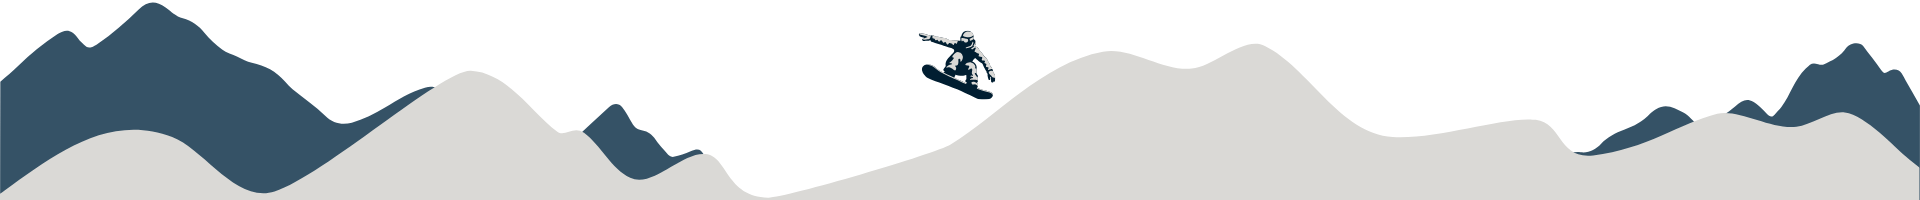
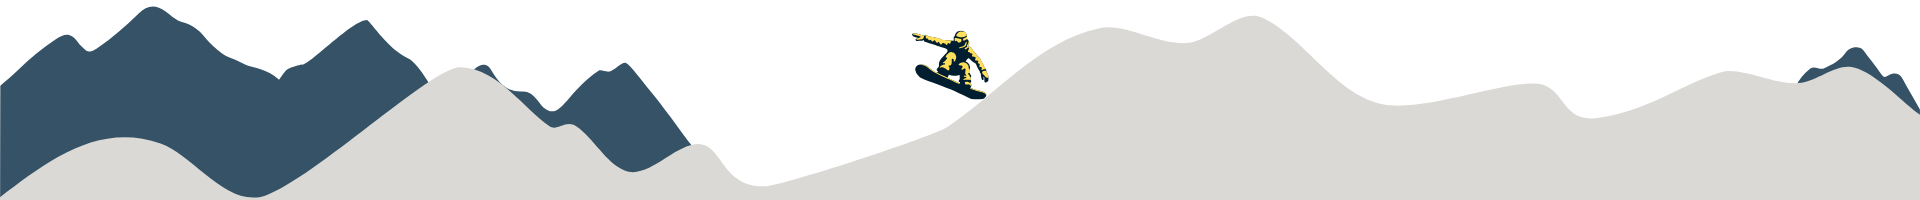
New layout

diff --git a/stylesheet.css b/stylesheet.css
@@ -8,9 +8,7 @@ html {
 
 body {
   font-family: "Gill Sans", "Gill Sans MT", Calibri, "Trebuchet MS", sans-serif;
-  background-color: #68869a;
-  background-image: linear-gradient(175deg, #68869a 70%, #f8e595);
-
+  background-color: hsl(45, 5%, 85%, 100%);
   margin: 0;
   padding: 0;
   min-height: 100vh;
@@ -20,8 +18,6 @@ body {
   display: grid;
   grid-template-columns: 1fr;
   grid-template-rows: auto auto 1fr auto auto auto; /* header nav main aside div footer */
-  min-height: 100vh;
-  height: 100%;
 
   @media (min-width: 480px) {
     grid-template-columns: 1fr 2fr;
@@ -36,30 +32,61 @@ body {
 
 header {
   grid-area: 1 / 1 / 2 / 2;
-  padding: 0.5rem 10%;
+  z-index: 0;
+  padding: 0.5rem 1rem;
+
+  background-color: #68869a;
+  background-image: linear-gradient(175deg, #68869a 70%, #f8e595);
+  height: 200px;
 
   @media (min-width: 480px) {
     grid-area: 1 / 1 / 2 / 3;
+    padding: 0.5rem 2rem;
   }
 
   @media (min-width: 1024px) {
-    grid-area: 1 / 1 / 3 / 3;
-    align-items: center;
-    justify-content: left;
+    grid-area: 1 / 1 / 2 / 3;
+    padding: 0rem 0rem 0rem 3rem;
+  }
+}
+
+.gradient {
+  grid-area: 1 / 1 / 2 / 2;
+  z-index: 1;
+  margin: 0;
+  padding: 0;
+  background-image: url("branding/footer-bjerge.png");
+  background-size: cover;
+  background-repeat: no-repeat;
+  background-position: center;
+  height: 200px;
+
+  @media (min-width: 480px) {
+    grid-area: 1 / 1 / 2 / 3;
+    padding: 0.5rem 2rem;
+  }
+
+  @media (min-width: 1024px) {
+    grid-area: 1 / 1 / 2 / 3;
+    padding: 0rem 0rem 0rem 3rem;
   }
 }
 
 nav {
   grid-area: 2 / 1 / 3 / 2;
-  padding: 0.5rem 10%;
+  z-index: 2;
+  display: grid;
+  padding: 0.5rem 1rem;
 
   @media (min-width: 480px) {
     grid-area: 2 / 1 / 3 / 3;
+    padding: 0.5rem 2rem;
   }
 
   @media (min-width: 1024px) {
-    grid-area: 1 / 1 / 3 / 3;
-      align-items: center;
+    grid-area: 1 / 2 / 2 / 3;
+    padding: 0rem 3rem;
+    align-items: end;
   }
 }
 
@@ -68,19 +95,20 @@ nav > ul {
   display: flex;
   flex-flow: row wrap;
   align-items: center;
-  justify-content: center;
+  justify-content: flex-end;
   gap: 1rem;
   font-family: "Kalam", "Lucida Sans", "Lucida Sans Regular", "Lucida Grande",
     "Lucida Sans Unicode", Geneva, Verdana, sans-serif;
   font-weight: 700;
   text-transform: uppercase;
   font-size: 1.3rem;
+  margin: 0;
+  padding: 0;
 
   @media (min-width: 480px) {
   }
 
   @media (min-width: 1024px) {
-    justify-content: flex-end;
   }
 }
 
@@ -136,14 +164,14 @@ aside {
   }
 
   @media (min-width: 1024px) {
-    grid-area: 3 / 1 / 4 / 2;
+    grid-area: 2 / 1 / 4 / 2;
   }
 }
 
 #footerimg {
   grid-area: 5 / 1 / 6 / 2;
   background-color: hsl(45, 5%, 85%, 0%);
-  background-image: url("branding/footer-bjerge.png");
+  background-image: url("branding/footer-trees.png");
   background-size: cover;
   background-repeat: no-repeat;
   background-position: center;
@@ -160,7 +188,7 @@ aside {
 
 footer {
   grid-area: 6 / 1 / 7 / 2;
-  background-color: hsl(45, 5%, 85%, 100%);
+  background-color: #011e31;
   padding: 0.5rem 10%;
   gap: 10%;
 
@@ -201,7 +229,8 @@ h3 {
 }
 
 .rimg {
-  border-radius: 50%;
+  border-radius: 5px;
+  max-width: 100%;
 }
 
 .flex {

diff --git a/index.html b/index.html
@@ -20,11 +20,11 @@
   <body>
     <div class="wrapper">
       <header>
-        <h1>Animal Lover meets Software</h1>
       </header>
+      <div class="gradient"></div>
       <nav>
         <ul>
-          <li><a href="index.html">About</a></li>
+          <li><a href="index.html">Julie Herold</a></li>
           <li><a href="cv.html">CV</a></li>
           <li><a href="portfolio.html">Portfolio</a></li>
         </ul>
@@ -87,8 +87,8 @@
         <h2>Hi! I'm Julie and I am starting a new career!</h2>
         <img
           class="rimg"
-          src="images/profile.png"
-          alt="Profile picture of Julie"
+          src="images/profile.jpg"
+          alt="Picture of Julie out sailing"
         />
         <h2>My to-do list</h2>
         <ul>
